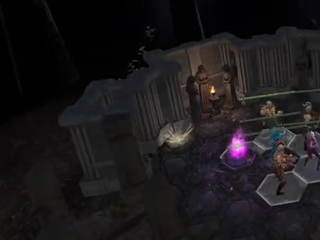
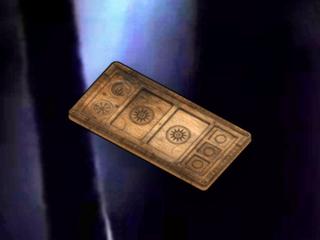
fix(options): the Standard environment tile shows the surround with the board in it
Reported: "Das Bild von der 'Standard-Umgebung' in der Optionskachel ist falsch.
Mach da einen Ausschnitt von der Textur dieser Blase drumrum rein mit dem Board
in der Mitte, wie bei Mixed Reality oder 'aus'."

He is right, and the cause is that Standard was built by a third pipeline. Aus
(schwarz) and Mixed Reality are the SAME play-tray render centred over a chosen
backdrop. Standard was an ffmpeg frame grab of docs/img/control-board.mp4
cropped onto the DIORAMA - an off-centre scenario shot with ruins, a party and
an element token, and no board anywhere near the middle. Next to the other two
it did not read as the same kind of picture.

ART ONLY. Nothing is mis-wired: VariantTilesTable.cs:151 already asks for
tile_env_default and csproj:77-78 already maps it to the right resource. The
wrong picture was the committed PNG.

The two layers, both from files this repo already tracks:

  the surround   a 4:3 window on the same clip that is ENTIRELY the game's own
                 sky. There is no asset to composite instead - Default owns
                 NOTHING (SkyAlternative.cs:568-575 gives it a null bundle path
                 because Default IS the base game's GH_SkySphere under
                 AMP_SkyShader), so photographing the game rendering it is the
                 only route there has ever been. What changed is the window.

  the board      keyed off the pure-black backdrop of tile_env_offblack.png
[…]

diff --git a/unity/asset-preview/build_variant_tile_default.py b/unity/asset-preview/build_variant_tile_default.py
@@ -1,0 +1,136 @@
+#!/usr/bin/env python3
+"""Rebuild the environment picker's DEFAULT tile:
+src/GloomhavenVR/WorldUI/Options/VariantTiles/tile_env_default.png
+
+WHY IT WAS REBUILT
+------------------
+The other four environment tiles are composed two ways: Keller and Nachtwald are crops of a real
+room (`EnvironmentsPreview` renders), and **Mixed Reality and Off (black) are the SAME play-tray
+render, centred, over a chosen backdrop**. Default was neither — it was an ffmpeg frame grab of
+`docs/img/control-board.mp4` cropped to whatever the capture happened to show: an off-centre
+scenario shot with ruins, a party and an element token, and no board in the middle. Beside MR and
+Off it did not read as the same kind of picture, which is what the author reported.
+
+This script composes Default the way MR and Off are composed: **the surround behind, the board in
+the middle.**
+
+WHERE EACH LAYER COMES FROM — both from files this repository already tracks:
+
+  the surround   a crop of the game's own scenario sky (`GH_SkySphere`, shader `AMP_SkyShader`)
+                 taken from `docs/img/control-board.mp4`. There is no asset to composite instead:
+                 `SkyAlternative.cs:568-575` gives Default a NULL bundle path because the mod owns
+                 no sky for it — Default IS the base game's sky, and the only way to picture it is
+                 to photograph the game rendering it. So the frame grab stays; what changes is that
+                 a region of PURE SURROUND is used, instead of a window onto the diorama.
+
+  the board      keyed straight out of `tile_env_offblack.png`, whose backdrop is pure black. That
+                 is deliberate over re-rendering the tray in Blender: keying the shipped tile
+                 guarantees the board sits at the SAME pose, the SAME size and the SAME place as on
+                 the MR and Off tiles, which is the whole point of the change. Re-rendering would
+                 re-derive all three and could drift from them by a pixel.
+
+THE ONE LIFT, AND WHY IT IS NOT "RE-GRADING A ROOM"
+--------------------------------------------------
+The raw surround is near-black (mean ~12/255). Left raw, the Default tile would be a black
+rectangle with a board on it — which is the OFF (BLACK) tile, and `.planning/variant-tiles.md:44-46`
+already records why a tile must never look like that ("exactly what a tile whose art failed to load
+looks like"). The lift below is what makes Default distinguishable FROM Off at 320x240 in a
+headset. It is a UI thumbnail, not an environment preview: the standing "never re-light a room to
+make a screenshot behave" ruling is about `EnvironmentsPreview` renders that are judged as the
+product, and this is not one.
+
+Usage:  python3 unity/asset-preview/build_variant_tile_default.py
+Needs:  ffmpeg on PATH, Pillow.
+"""
+
+import os
+import subprocess
+import sys
+import tempfile
+
+import numpy as np
+from PIL import Image, ImageEnhance, ImageFilter
+
+ROOT = os.path.dirname(os.path.dirname(os.path.dirname(os.path.abspath(__file__))))
+CLIP = os.path.join(ROOT, "docs", "img", "control-board.mp4")
+TILES = os.path.join(ROOT, "src", "GloomhavenVR", "WorldUI", "Options", "VariantTiles")
+OUT = os.path.join(TILES, "tile_env_default.png")
+
+# The frame, and the window on it that is ENTIRELY surround. The clip is 960x540; the diorama's
+# top edge and the first tooltip both start below/right of this box — checked frame by frame, not
+# assumed. 4:3 so nothing is ever stretched.
+FRAME_AT = "6.0"
+CROP = (240, 0, 453, 160)
+
+WORK = (640, 480)      # composed at 2x and downsampled, so the tray edge stays clean
+TILE = (320, 240)
+
+
+def surround():
+    with tempfile.TemporaryDirectory() as tmp:
+        png = os.path.join(tmp, "frame.png")
+        subprocess.run(["ffmpeg", "-v", "error", "-ss", FRAME_AT, "-i", CLIP,
+                        "-frames:v", "1", png], check=True)
+        im = Image.open(png).convert("RGB").crop(CROP)
+
+    im = im.resize(WORK, Image.LANCZOS).filter(ImageFilter.GaussianBlur(2.2))
+    im = ImageEnhance.Brightness(im).enhance(2.9)
+    im = ImageEnhance.Contrast(im).enhance(1.12)
+
+    # A soft centre glow, so the eye lands on the board rather than on a tree trunk. Same job the
+    # MR tile's lighter middle does; drawn rather than lit, because there is nothing here to light.
+    glow = Image.new("L", WORK, 0)
+    gx, gy, r = WORK[0] // 2, int(WORK[1] * 0.56), int(WORK[0] * 0.46)
+    Image.Image.paste(glow, Image.new("L", (2 * r, 2 * r), 255),
+                      (gx - r, gy - r), _radial(r))
+    glow = glow.filter(ImageFilter.GaussianBlur(70))
+    return Image.composite(ImageEnhance.Brightness(im).enhance(1.5), im, glow)
+
+
+def _radial(r):
+    m = Image.new("L", (2 * r, 2 * r), 0)
+    from PIL import ImageDraw
+    ImageDraw.Draw(m).ellipse([0, 0, 2 * r, 2 * r], fill=255)
+    return m
+
+
+def board():
+    """The tray, keyed off the pure-black backdrop of the Off tile."""
+    src = Image.open(os.path.join(TILES, "tile_env_offblack.png")).convert("RGB")
+    src = src.resize(WORK, Image.LANCZOS)
+    lo, hi = 10, 34
+    alpha = src.convert("L").point(lambda v: 0 if v <= lo else (255 if v >= hi else
+                                                               int(255 * (v - lo) / (hi - lo))))
+    alpha = alpha.filter(ImageFilter.MaxFilter(3)).filter(ImageFilter.GaussianBlur(0.8))
+    out = src.convert("RGBA")
+    out.putalpha(alpha)
+    return out
+
+
+def main():
+    if not os.path.isfile(CLIP):
+        sys.exit("missing %s" % CLIP)
+    bg = surround()
+
+    # the contact shadow first, then the tray on top of it
+    tray = board()
+    shadow = Image.new("L", WORK, 0)
+    shadow.paste(tray.split()[3], (0, 26))
+    shadow = shadow.filter(ImageFilter.GaussianBlur(22)).point(lambda v: int(v * 0.55))
+    bg = Image.composite(Image.new("RGB", WORK, (0, 0, 0)), bg, shadow)
+
+    # Composite by hand. `tile_env_offblack.png` is the tray ALREADY over black, i.e. its RGB is
+    # premultiplied by the alpha we just keyed out of it; PIL's alpha_composite expects STRAIGHT
+    # alpha and would dim the tray against a non-black backdrop. bg*(1-a) + premultiplied is the
+    # arithmetic that actually holds here, and it is why the board looks identical on all three
+    # tiles instead of a little darker on this one.
+    a = np.asarray(tray.split()[3], dtype=np.float32)[:, :, None] / 255.0
+    comp = np.asarray(bg, dtype=np.float32) * (1.0 - a) \
+        + np.asarray(tray.convert("RGB"), dtype=np.float32)
+    out = Image.fromarray(np.clip(comp, 0, 255).astype("uint8"), "RGB").resize(TILE, Image.LANCZOS)
+    out.save(OUT, optimize=True)
+    print("wrote %s (%d x %d, %d kB)" % (OUT, out.width, out.height, os.path.getsize(OUT) // 1024))
+
+
+if __name__ == "__main__":
+    main()

diff --git a/.planning/variant-tiles.md b/.planning/variant-tiles.md
@@ -39,8 +39,8 @@ both keys consistent; see the class doc on `VariantTiles.cs` for the exact rule 
 sky tile clears MR only if it was on, and the MR tile leaves `[Sky] Style` alone so switching MR back
 off restores the chosen room).
 
-Two of the five have no room to photograph, and both show **the same play tray at the same size and
-pose** so the difference between them is the only thing that changes:
+Three of the five have no room to photograph, and all three show **the same play tray at the same
+size and pose** so the difference between them is the only thing that changes:
 
 * **Aus (schwarz)** — the tray in pure black. Deliberately *not* an empty black rectangle: that is
   exactly what a tile whose art failed to load looks like, so the one state that really is "no
@@ -49,13 +49,27 @@ pose** so the difference between them is the only thing that changes:
   There is nothing to photograph (the surroundings are the player's own room, delivered by the
   compositor's chroma key), and a stock living room would be a picture of somebody else's flat. The
   contrast with the black tile beside it is the message.
+* **Standard** — the same tray over the game's own scenario sky. Default owns no asset at all
+  (`SkyAlternative.cs:568-575` gives it a NULL bundle path — it IS the base game's `GH_SkySphere`
+  under `AMP_SkyShader`), so its surround is the one layer here that has to be photographed rather
+  than rendered: a pure-surround window on a frame of `docs/img/control-board.mp4`.
 
-**Standard** is a crop of a real in-game frame of `docs/img/control-board.mp4`, framed to the
-scenario diorama and the game's own dark forest behind it, with every piece of mod UI cropped out.
+  **This tile was rebuilt.** It used to be a crop framed on the DIORAMA — an off-centre scenario
+  shot, ruins and a party and an element token, no board in the middle — and beside the two tiles
+  above it did not read as the same kind of picture. The author's report was
+  *"das Bild von der Standard-Umgebung ist falsch … mach da einen Ausschnitt von der Textur dieser
+  Blase drumrum rein mit dem Board in der Mitte, wie bei Mixed Reality oder aus"*, and that is now
+  what it is. Recipe: `unity/asset-preview/build_variant_tile_default.py`.
 
-Nothing is brightened. Both mod rooms are night scenes and that IS the product — the same ruling
-`docs/img/README.md` records for the README env heroes. Legibility at tile size is bought with the
-CROP, never with a curve that advertises a room the player never gets.
+Both mod ROOMS are night scenes and that IS the product — the same ruling `docs/img/README.md`
+records for the README env heroes — so Keller and Nachtwald are never brightened; their legibility
+at tile size is bought with the CROP.
+
+**Standard's surround is the one exception, and it is not that ruling.** The raw sky crop is
+near-black (mean ~12/255), and left raw the tile would be a black rectangle with a board on it —
+i.e. the Aus (schwarz) tile, which is the exact failure the first bullet above exists to prevent.
+The lift is what makes the two distinguishable at 320x240. It grades a UI THUMBNAIL of a sky, not a
+room render that is judged as the product.
 
 ## Regenerating the art
 
@@ -85,8 +99,8 @@ r $B/Head/Mask_2.fbx $B/Head/Mask_2_albedo.png raw/mask_2.png --unlit --res 512
 r $B/Table/PlayTray_prepped.fbx $B/Table/PlayTray_albedo.png raw/board_oak.png \
   --normal $B/Table/PlayTray_normal.png --res 512 --yaw 35 --pitch 50 --scale 0.78
 
-# the Standard tile's source frame
-ffmpeg -v error -ss 0.2 -i docs/img/control-board.mp4 -frames:v 1 frames/std_cb.png
+# the Standard tile's source frame — the SURROUND, not the diorama
+ffmpeg -v error -ss 6.0 -i docs/img/control-board.mp4 -frames:v 1 frames/std_cb.png
 ```
 
 The composition step (crop, scale, backdrop, contact shadow) is a short PIL script; its decisions are
@@ -101,8 +115,10 @@ rules:
   stops at the wrist;
 * Keller and Nachtwald are 4:3 crops of `docs/img/env-cellar.jpg` and `docs/img/env-forest.jpg`,
   centred on the lit part of the room (0.50/0.56 at 0.92 height, and 0.50/0.46 at 0.94);
-* Standard is `crop43(std_cb.png, cx=262, cy=312, h=364)` — the window that excludes the control
-  board (x >= 760), the tooltip (x >= 573) and the card fan (x >= 511, y >= 441).
+* Standard is `std_cb.png` cropped to `(240, 0, 453, 160)` — a 4:3 window that is ENTIRELY the
+  game's sky, with the tray keyed out of `tile_env_offblack.png` composited over it so the board
+  lands at exactly the pose the MR and Aus tiles put it at. The whole recipe, and why the tray is
+  keyed rather than re-rendered, is `unity/asset-preview/build_variant_tile_default.py`.
 
 ## Legibility
 
